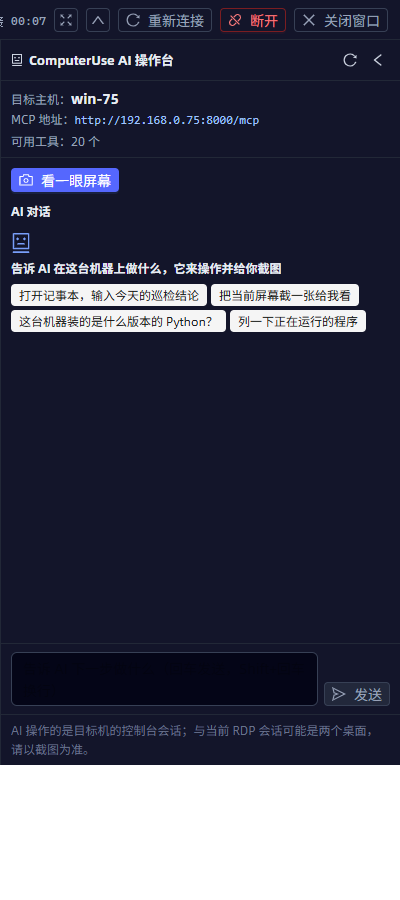
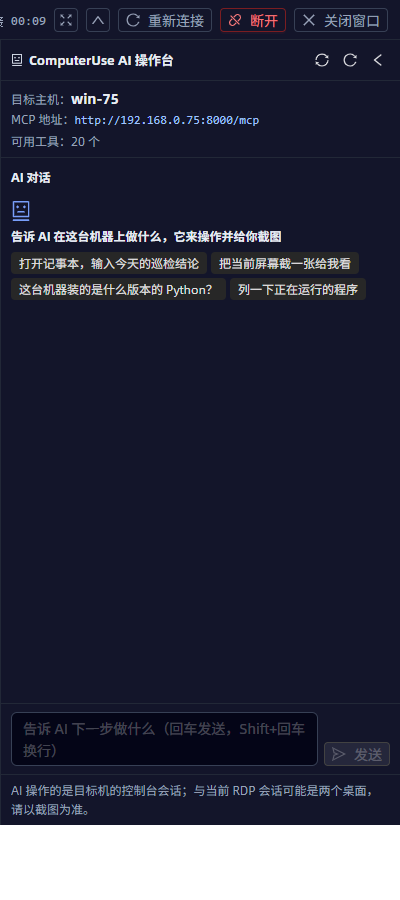
docs(computeruse): 同步侧边栏改版、两个真缺陷与浏览器目视验收
- `docs/使用手册.md` / `docs/i18n/manual.en.md`：侧边栏小节按改版重写——截图不再靠手点按钮（工具调用的图片卡片会带回对话）、新增「重启 MCP」自愈按钮、「AI 对话」一条写明 Markdown 真渲染 + 折叠区默认展开 + 工具卡里能看到什么；「本次已知限制」里那条浏览器目视验收改成「2026-10-13 首轮 + 2026-10-14 改版轮都做了」，并列出改版轮逐条断言与三张新截图。
- `docs/验证记录.md`：后端全量例数更新为 **759 passed（35 个文件）**（并写明 `addopts = -q` 与命令行 `-q` 叠加成 `-qq` 导致终端不打印 summary 行，判据是进度点无 F/E + 退出码 0，例数用 `--collect-only` 复核）；主表新增「侧边栏改版（用户追加 8 条）+ 两个真缺陷修复」一行；新增 `### 6.4.2 侧边栏改版轮的浏览器目视验收（2026-10-14 补做）`——逐条断言表 + 三张截图 + 两个真缺陷的根因与修法（拒绝敏感操作后 tool 响应顺序非法导致永久 400、面板 `asText()` 判 `value.trim()` 吃掉纯空白增量导致列表与中英空格消失）；`## 6.9` 里那条验收说明同步更新。
- `docs/需求对照.md`：需求③ 行补上截图图片卡片与 Markdown 真渲染；新增「一·九·补」小节，把用户追加的 8 条逐条对上实现与证据。
- 根 `README.md`：ComputerUse 图组补「侧边栏（空态）」与「侧边栏（对话中）」两张实测截图。
- 截图更新：`docs/screenshots/computeruse-panel-welcome.png`、`computeruse-panel.png`（列表 + 表格真渲染）重出，新增 `computeruse-panel-tool-call.png`（折叠区默认展开 + 深色工具卡）。

Changed region(s): [[0.0, 0.7467, 1.0, 0.9333], [0.03, 0.1867, 0.93, 0.3733], [0.09, 0.0, 0.12, 0.0311]]

diff --git a/docs/验证记录.md b/docs/验证记录.md
@@ -15,7 +15,7 @@
 
 | 类别 | 结果 |
 | --- | --- |
-| 后端单元 + 接口 + 权限测试 | `python -m pytest -q` → **751 passed（35 个文件）, exit 0**（2026-10-13 ComputerUse 轮：全量套件跑完、进度点到 100%，全程无 F/E；本轮为「带 `hostId` 的对话 500」补了 `test_chat_accepts_host_context_from_rdp_console` 与 `test_host_snapshot_accepts_orm_dict_and_none` 两条回归用例（749 → 751）；此前修掉 `tests/test_idle_sweeper.py` 里因进程级会话注册表被别的用例泄漏而变 flaky 的既有用例，并在 `/mcp/probe` 探活回写修复后补了 `test_failed_probe_keeps_recorded_tools`。上一轮为 `705 passed（33 个文件）`） |
+| 后端单元 + 接口 + 权限测试 | `python -m pytest -q` → **759 passed（35 个文件）, exit 0**（2026-10-14 侧边栏改版轮：全量套件跑完、进度点到 100%、全程无 F/E（`pytest.ini` 的 `addopts = -q` 与命令行 `-q` 叠加成 `-qq`，终端不打印「N passed」summary 行，所以判据是进度点无 F/E + 退出码 0，例数另用 `--collect-only` 复核）；`--collect-only` 实测 **759** 例 = 上一轮 751 + 本轮 8 条（`tests/test_computeruse.py` 6 条：MCP 卡到截止时间就放弃而不挂死、重启脚本杀监听并拉起计划任务、`observe_computer` / `Snapshot` 参数归一、重启接口探活、重启接口绝不回 5xx；`tests/test_ai_api.py` 2 条回归 —— `test_new_message_while_a_sensitive_call_is_pending_is_not_silent`（上一轮有敏感操作挂着时再发消息只回一个空气泡）、`test_build_messages_keeps_tool_responses_right_after_their_assistant`（拒绝敏感操作后 tool 响应必须紧跟声明它的那条 assistant，否则整段对话永远 400；改前同一份报文 POST 上游 HTTP 400、改后 200）；此前 2026-10-13 ComputerUse 轮：全量套件跑完、进度点到 100%，全程无 F/E；那一轮为「带 `hostId` 的对话 500」补了 `test_chat_accepts_host_context_from_rdp_console` 与 `test_host_snapshot_accepts_orm_dict_and_none` 两条回归用例（749 → 751）；此前修掉 `tests/test_idle_sweeper.py` 里因进程级会话注册表被别的用例泄漏而变 flaky 的既有用例，并在 `/mcp/probe` 探活回写修复后补了 `test_failed_probe_keeps_recorded_tools`。上一轮为 `705 passed（33 个文件）`） |
 | **Windows 网页终端（WinRM，`app/winrm/`）** | `tests/test_winrm_gateway.py`（**49**）全绿：客户端层（口令解密、`5986` 走 https、私钥账号与空口令给人话报错、非法传输方式回落 `ntlm`、解码 UTF-8/GBK/脏字节、六种网络异常翻译、`-EncodedCommand` 的 UTF-16LE+base64 编码、超时请求中断并清 shell、`test_connection` 的成功/超时/空输出）；桥接层（脚本生成与 `Set-Location`、**落款 marker 取第一个而不是最后一个**（回归用例）、CLIXML 错误流还原、逐行执行与输出归属、`cd` 跨命令保留、非零退出码、策略拒绝**不发目标机**、**`cls`/`clear` 就地清屏且一条都不发目标机**、**白名单策略下 `cls` 照样被拒且不清屏**、`exit` 记会话控制并回调收口、超时/失败各自的事件动作、行编辑/历史/中文/Ctrl-W/Ctrl-C、能力边界横幅）；会话分发（`protocol=winrm` 选 `WinrmBridge` 并落 `sessions.protocol`、`rdp` 主机进网页终端被拒「只有 ssh / winrm 能进网页终端」）；资产接口（新建 winrm 主机默认端口 5985 与 `ntlm`、改 `basic`、非法传输方式 400、测试连接回 `check=winrm`）；网页终端入口（winrm 主机出现在 `/api/terminal/targets` 且 `/check` 放行、只有 `terminal:use` 的角色看得到 winrm 却看不到 rdp 主机）。**钉死的三条产品行为**：被拒命令**不占执行序号**（`stats()["commands"]` 只数真跑过的）、`stop()` 不触发 `on_close`（只有会话正常结束/目标机不可用才触发）、单条命令失败只记 `action=error` 且会话可继续用 |
 | **WinRM 真机（SSH 网关里选 Windows 主机）** | `python tools/winrm_gw_check.py --admin-password <口令>` → **共 9 项，通过 9，失败 0，exit 0**：网关菜单里出现 WinRM 主机 → 进会话有 PowerShell 提示符与两行能力边界提示 → `whoami`/`hostname` 输出是目标机的 → `exit` 回主机菜单并给出「会话已关闭」收口提示。同一轮真机里核对落库：`sessions` 表 id 88 / `source=gateway` / `protocol=winrm` / `command_count=3` / `end_reason=用户在终端里退出了 Windows 会话`，转录里 `CMD 1 'whoami' allow`、`CMD 2 'hostname' allow` 逐条在案（需求④ 在 Windows 上成立） |
 | **用户实测反馈的两个缺陷（已修，真机复验）** | ①「有概率敲命令没输出」＝会话就绪前敲下的键被前端**静默丢弃**（服务端 `early_input` 本就会缓冲并在就绪后按序回放，前端 `inputEnabled` 却只认 `connected`；WinRM 建连更慢所以更容易踩到）⇒ `inputEnabled` 改为只排除 `failed`/`disconnected`，并在会话连上后把焦点收回终端；②「`cls`/`clear` 清不了屏」＝WSMan 会话没有真实控制台、PowerShell 的 `Clear-Host` 依赖 `$Host.UI.RawUI`、在 `-NonInteractive` + 重定向输出下直接报错 ⇒ `cls` / `clear` / `Clear-Host` 命中 `LOCAL_CLEAR_COMMANDS` 后由堡垒机**就地清屏**（只写清屏序列 + 重画提示符，不发目标机；判定在命令策略之后，白名单策略照样能拦）。真机复验（CDP 驱动真实 Chrome，每轮开窗后**立刻**敲 `echo early-N-ok`）：2 轮 `FAILS=0`、`cls` 之后屏长 28 只剩一行提示符、截图 `winrm-cls-and-early-input.png`；落库核对 `command_logs` id 68/70 = `echo early-1-ok`/`echo early-2-ok`（`action=allow`、`duration_ms=473`、`output` 正确），id 69/71 = `cls`（`reason=本地清屏指令（WinRM 会话没有真实控制台，不发给目标机）`、`duration_ms=0`），`sessions` 111/112 均 `protocol=winrm`/`command_count=2`/`bytes_in=21`（对照修复前两条 `command_count=0`、`bytes_in=1`） |
@@ -47,6 +47,7 @@
 | 前端门禁（ComputerUse 轮） | `npx tsc --noEmit` → exit 0、`npx biome check` → `No fixes applied.`（exit 0）、`npm run build` → exit 0、`npx vitest run` → **182 例全绿**（12 个测试文件；其中 ComputerUse 相关 112 例 = 部署向导 63 例（`ant-design-pro/src/pages/bastion/computer-use/helpers.test.ts`、`logStream.test.ts`）+ RDP 侧边栏 49 例（`ant-design-pro/src/pages/bastion/rdp/computerUsePanel.test.tsx`）），构建产物里能搜到 ComputerUse 面板代码。**真机端到端另见下面「ComputerUse 在 win-75 上端到端部署成功」那一节**（面板本身的浏览器目视验收见再下一行） |
[1 lines of base64/hex data omitted]
 | **ComputerUse 侧边栏改版 + 浏览器目视验收（本轮）** | 按用户实测反馈把 `ant-design-pro/src/pages/bastion/rdp/computerUsePanel.tsx` 对齐主界面「AI 运维助手」：删掉正文上方「截图直接来自目标机 MCP…」的说明与整个「工具清单」块（可用工具数仍留在头部）、深色主题下按钮改成看得见的浅色（顶部刷新/收起 `#cbd5e1`、主按钮白字蓝底）、「思考过程」与「工具调用 N 次」各自折叠且默认展开、示例问题点一下就发、发送按钮挪到输入框右边同一行（流式中变「停止」）。**顺带修掉两个真问题**：① 带 `hostId` 打开对话必 500（`'Host' object has no attribute 'get'`——`bastion-backend/app/ai/service.py` 的 `create_conversation` 把 ORM 对象当 dict 读，现改为 `host_snapshot()` 同时吃 ORM / dict / None）；② 面板「发消息没反应」（`ant-design-pro/src/services/bastion/ai.ts` 的 `streamAiChat` 把非 2xx 响应当流读、错误被吞，现改为 `describeHttpError()` 把信封 `message` 抛成人话）。**浏览器目视验收（Chrome 155.0.8059.40 + CDP 驱动真实页面，真机 `hostId=5` 的 `/rdp/console`）**：面板展开 ✓、示例问题点一下就发（turns=2）✓、思维链与「工具调用 1 次」随流式依次长出 ✓、`run_command` 时自动弹出「敏感操作需要管理员确认」✓、横向几何量测面板 400px 且 `.bastion-cu-body` `scrollWidth == clientWidth`（379px）**没有溢出被裁** ✓；截图 [computeruse-panel.png](screenshots/computeruse-panel.png)（对话中）、[computeruse-panel-welcome.png](screenshots/computeruse-panel-welcome.png)（空态示例）。**证据链**：后端新增 2 条回归用例（`test_chat_accepts_host_context_from_rdp_console`、`test_host_snapshot_accepts_orm_dict_and_none`）—— 改之前 `bastion-backend/tests/` 里**没有任何用例带 `hostId` 打 `/api/ai/chat`**，这个 500 才得以长期潜伏 |
+| **ComputerUse 侧边栏改版（用户追加 8 条）+ 两个真缺陷修复（本轮）** | 按用户 8 条要求改 `ant-design-pro/src/pages/bastion/rdp/computerUsePanel.tsx` 与后端 AI 工具层：① 删掉「看一眼屏幕」按钮与整个截图区块，截图改由工具调用的**图片卡片**随对话送达（`bastion-backend/app/ai/tools.py` 新增 `_collect_images()` / `_without_images()` / `_image_caption()`，那段 base64 只留「这里有一张图」的占位给模型），并新增「重启 MCP」自愈按钮（`POST /api/computer-use/mcp/restart`：停旧进程 → 走开机自启脚本重拉 → 探活 → 回工具数）；② 面板根节点套 `<ConfigProvider theme={{algorithm: theme.darkAlgorithm}}>`（React context 穿过 antd Modal 的 portal，确认弹窗一起变深色），删掉原先那堆 `!important` 补丁，页脚 `#64748b` → `#94a3b8`；③ 从 `ant-design-pro/src/pages/bastion/ai/cards.tsx` 抽出并导出 `AiCardView` / `AiCards` / `AiCode`（新增 `image` 卡片分支），面板与「AI 运维」页共用 `bastion-ai-*` 家族；④ 门禁与真机复测见右栏。**修掉两个真缺陷**：**（一）拒绝敏感操作后整个对话永久 HTTP 400** —— `reject_tool_call()` 补写的那条 `tool` 响应是按时间顺序 append 到会话末尾的，违反 OpenAI 兼容协议「tool 响应必须紧跟声明它的那条 assistant」，中间只要插了别的问答，此后每次请求都 400（`bastion-backend/app/ai/service.py`）；修法是重写 `build_messages()`：先按 `tool_call_id` 收集所有 tool 正文，再遍历历史，遇到声明了 `tool_calls` 的 assistant 就**立刻**为它的每个 call id 补一条 tool 响应（缺失的用「未执行：管理员拒绝了该操作。」占位），历史里裸的 `role == "tool"` 条目跳过。实测同一份报文修复前 POST 上游 **HTTP 400（响应体为空）**、修复后 **HTTP 200** 正常返回；真机重发那句曾必 400 的指令 **13.3 秒**答完。**（二）面板的 Markdown 列表与中英空格被吃掉**（用户报的「Markdown 根本没渲染」）—— 根因是面板自己的 `asText()` 判 `value.trim()`，把**纯空白的流式增量当空丢掉**（tokenizer 会把 `- ` 切成 `-` 和 ` `、把 `win-75 上` 在空格处切开），于是列表标记退化成 `-文字`；换成对齐 AI 页 `asString` 的 `asStreamDelta()` 后真机 `ul=1 / li=3 / table=1 / blockquote=1`。**门禁**：后端全量 **759 passed**（35 个文件）、前端全量 **12 文件 182 passed**（RDP 侧边栏 49 例）、`tsc` / `biome` / `npm run build` 全绿；**真机浏览器目视验收**（Chrome 155.0.8059.40 + CDP 驱动真实页面，真机 `hostId=5` 的 `/rdp/console`）见表 6.4.2；截图 [computeruse-panel-welcome.png](screenshots/computeruse-panel-welcome.png)（空态）、[computeruse-panel.png](screenshots/computeruse-panel.png)（列表+表格真渲染）、[computeruse-panel-tool-call.png](screenshots/computeruse-panel-tool-call.png)（折叠区默认展开 + 深色工具卡） |
 | 前端门禁（WinRM 轮，历史记录） | `npx biome check`（本次改动的文件）→ `No fixes applied.`（exit 0）、`npx biome lint src` → `Checked 257 files`（exit 0，26 条既有 warning，无新增）、`npx tsc --noEmit` → exit 0、`npm run build` → exit 0、`npx vitest run` → **12 files / 85 tests：85 passed, exit 0**（本轮 `import 52.86s`；上一轮同一套用例在 `import 69.16s` 时 `src/app.test.tsx > app getInitialState > should fetch currentUser when not on login page` 会超 15000ms 失败 —— 同一条**环境边界**用例：单跑该文件 6/6 通过、这条用例实测 14959ms，离上限只差 41ms，与改动无关。两轮记录都留着，不粉饰）。单测清单（新增 `src/pages/bastion/rdp/recordingUpload.test.ts` 9 条：分片串行不并发（乱序即坏视频）、失败自动重试两次（`[0,1,1,2]`）、重试用尽只记失败且后续片照发、`drain` 期间新入队的片也等完、`onProgress` 快照、空队列立即返回、`uploadId` 是 8-64 位小写十六进制且不重复、非安全上下文（局域网 IP 没有 `crypto.randomUUID`）时的三级回退（新增 `src/pages/bastion/rdp/types.test.ts` 7 条：老目标机的两类报错（WebSocket 认证阶段被掐断 / 解码失败）都翻成中文并给出「强制 SSL / 改用系统远程桌面」两条出路）（含 `src/components/Bastion/jsonText.test.ts` 9 条：截断 JSON 修复只保留完整条目、完整 JSON 不算截断、解析不了回退纯文本、机器词归一、失败消息里多出的 `HTTP 403` 行不挡载荷起点；新增 `src/pages/bastion/rdp/input.test.ts` 5 条：1:1 / 等比缩放 / 左右黑边 / 上下黑边 / 越界钳制、新增 `src/pages/bastion/files/uploadProgress.test.ts` 7 条：按已发字节算百分比 / **发送阶段封顶 99%**（最后 1% 留给服务端落盘）/ total 为 0 或数据异常返回 0 / 向下取整 / 封顶可调 / 速率文案 / 无速率时不给「0 B/s」）、`npm run build` → exit 0 |
 
 实测截图（`docs/screenshots/`，全部由本次 Chrome CDP 实测现场截取）：
@@ -234,6 +235,26 @@ AIOps（AI 运维）相关的真实缺陷，同样都带回归用例：
 
 截图：[computeruse-panel-welcome.png](screenshots/computeruse-panel-welcome.png)（空态）与 [computeruse-panel.png](screenshots/computeruse-panel.png)（对话中）。
 
+### 6.4.2 侧边栏改版轮的浏览器目视验收（2026-10-14 补做）
+
+同一台真机（`hostId=5` / `accountId=5`）、同一套 CDP 驱动（Chrome 155.0.8059.40，注入本地签发的 12 小时 JWT），跑的就是当轮代码：
+
+| 断言 | 实测 |
+| --- | --- |
+| 「看一眼屏幕」按钮与截图区块已删除 | 面板头部只剩「重启 MCP / 刷新 / 收起」三颗图标按钮；`computeruse-shots` 节点不存在（6.4.1 中那颗「看一眼屏幕」按钮已随本轮删除） |
+| 深色主题下没有黑字 | 折叠区标题 `rgba(255,255,255,0.85)`、面板正文 `rgb(230,237,243)`、Tag `rgba(255,255,255,0.85)`、发送按钮 disabled `rgba(255,255,255,0.25)`；页脚 `#94a3b8`（对比度不足的 `#64748b` 已调亮） |
+| 轮次结构对齐 AI 运维页 | 轮次容器 `bastion-ai-turn`；「思考过程」与「工具调用 4 次 待确认 1」两块折叠区**默认展开**；展开体里是 `成功 observe_computer 157ms` + 中文描述 + 参数/结果预览卡片 |
+| **Markdown 真的渲染成 DOM** | `.bastion-ai-markdown` 内 `ul=1`、`li=3`、`table=1`、`blockquote=1`；`mdHtml` 含 `<ul><li>` 与 `<table><thead><tr><th>项目</th><th>状态</th>`；列表项 `检查 win-75 的 SSH/WinRM 登录账号是否可用…`（中英之间的空格都在）；`ERRORS=[]`、10.9s 答完 |
+| 敏感操作确认弹窗在深色下可用 | `modalButtons=['留在本窗口','立即关闭','','','拒绝执行','确认执行']`（`ConfigProvider` 的深色算法能穿过 Modal 的 portal） |
+| 面板横向几何没变 | 面板 `400px`；`.bastion-cu-body` `clientWidth 399 == scrollWidth 399`；输入框与发送按钮同一行 |
+
+截图：[computeruse-panel-welcome.png](screenshots/computeruse-panel-welcome.png)（空态，头部三颗图标按钮）、[computeruse-panel.png](screenshots/computeruse-panel.png)（Markdown 列表 + 表格真的渲染出来）、[computeruse-panel-tool-call.png](screenshots/computeruse-panel-tool-call.png)（思考过程与「工具调用 4 次 待确认 1」折叠区默认展开、工具卡是深色的）。
+
+这一轮验收里揪出并修掉两个真缺陷（都会把功能卡死）：
+
+1. **拒绝敏感操作之后，整个对话永久 HTTP 400。** `reject_tool_call()` 补写的那条 `tool` 响应是按时间顺序 append 到会话末尾的，而 OpenAI 兼容协议要求 tool 响应**紧跟**声明它的那条 assistant；中间只要插了别的问答（比如挂起时的提示轮），报文就非法，此后每次请求都 400、对话报废。修法是重写 `build_messages()`：先按 `tool_call_id` 收集所有 tool 正文，再遍历历史，遇到声明了 `tool_calls` 的 assistant 就**立刻**为它的每个 call id 补一条 tool 响应（缺失的用「未执行：管理员拒绝了该操作。」占位），历史里独立的 `role == "tool"` 条目跳过（已就地补过，孤儿自然丢弃）。实测：修复前拿这条对话生成的报文直接 POST 上游是 **HTTP 400（上游响应体为空）**，修复后同一份报文 **HTTP 200** 并正常返回；真机上重发那句曾必 400 的指令 → **13.3 秒**正常答完，`ERRORS` 里只剩历史那一轮的旧错误块。回归用例：`tests/test_ai_api.py::test_build_messages_keeps_tool_responses_right_after_their_assistant`（配 `_protocol_violations()` 校验「assistant.tool_calls 后紧跟同序同 id 的 tool、无孤儿、无打断」）。
+2. **侧边栏的 Markdown 列表与空格被吃掉**（用户报的「Markdown 根本没有被渲染」）。根因不在 `@ant-design/x-markdown` 2.9.0（它逐字 commit pending 文本，解析器不吃空格），而在面板自己的 `asText()`：`typeof value === 'string' && value.trim() ? value : undefined` 会把**纯空白的流式增量当空丢掉** —— tokenizer 会把 `- ` 切成 `-` 和 ` `、把 `win-75 上` 在空格处切开，于是列表标记退化成 `-文字`、中英之间的空格消失（主界面 AI 运维用的是只判 `value` 的 `asString`，所以它一直正常）。修法是新增 `asStreamDelta()`（对齐 AI 页，只判 `value`）并让 `classifyChatEvent` 用它。可证丢的是前端：后端库里那条回答（对话 6 的 `id=103`、`status=done`）文本空格完好，渲染出来却缺；修完真机 `ul=1 / li=3 / table=1`。回归用例：`computerUsePanel.test.tsx` 的「content / reasoning 要保住纯空白的 delta（markdown 列表就靠那个空格）」与「按 token 逐段喂进来，拼出的 markdown 仍然是列表」。
+
 ## 6.5 pip 装包速度对比
 
 | 源 | `pip install windows-mcp` 耗时 |
@@ -300,7 +321,7 @@ AIOps（AI 运维）相关的真实缺陷，同样都带回归用例：
 
 ## 6.9 本次未做的验证
 
-- **浏览器目视验收：2026-10-13 做了**（Chrome 155.0.8059.40，CDP 驱动真实页面，真机 `hostId=5` 的 `/rdp/console`）：面板展开、示例问题点一下就发出、思维链与「工具调用 1 次」随流式依次出现、敏感操作确认弹窗自动弹出，都当场取证并截图；顺带量了横向几何——面板 400px、`.bastion-cu-body` 的 `scrollWidth == clientWidth`（379px），气泡与示例标签都没溢出。面板本身仍由 RDP 侧边栏的 **49** 个前端单测兜底（部署向导另有 63 例，全仓前端 12 文件 182 例全绿）。**仍未验证**：真实 RDP 会话里**展开/收起时画布 resize 与远端分辨率联动**。
+- **浏览器目视验收：2026-10-13 首轮 + 2026-10-14 改版轮都做了**（Chrome 155.0.8059.40，CDP 驱动真实页面，真机 `hostId=5` 的 `/rdp/console`，跑的就是当轮代码）：首轮验面板展开、示例问题点一下就发出、思维链与「工具调用 1 次」随流式依次出现、敏感操作确认弹窗自动弹出；改版轮另见 6.4.2（「看一眼屏幕」按钮与截图区块已消失、「重启 MCP」在头部、深色主题无黑字、轮次结构换成 AI 运维那套、**Markdown 真的渲染成 DOM**、工具调用折叠区默认展开；横向几何面板 400px、`.bastion-cu-body` 的 `scrollWidth == clientWidth`）。面板本身仍由 RDP 侧边栏的 **49** 个前端单测兜底（部署向导另有 63 例，全仓前端 12 文件 182 例全绿）。**仍未验证**：真实 RDP 会话里**展开/收起时画布 resize 与远端分辨率联动**。
 - **没有做「目标机整机重启后开机自启」的完整一轮**：VBS → CMD → 接管脚本这条链在真机上被触发过并通过（成功杀掉旧进程 10796、起了新进程 3028），但**没有重启过目标机**。
 - **前端没有 `computeruse:use` 的按钮级门禁**（后端每个接口都有权限校验）。
 - **「部署成功」≠「此刻活着」，而「此刻活着」≠「能截图」**：`/status` 的 `ready` 只表示这台机器部署成功过。MCP 进程本身并不依赖桌面会话 —— 计划任务用 S4U 在会话 0 里把它拉起来时，实测探活、工具清单、PowerShell 全部可用（2026-10-13 21:3x 复验：`共 20 项，通过 18，失败 2`，两条失败都是截图）；但截图与界面自动化**绑定登录桌面**，会话 0 里调 `Screenshot` 会拿到 `Error capturing screenshot: screen grab failed`（HTTP 200、0 张图）。另一头，MCP 进程会随那次登录会话注销而消失（实测 20:19 那个 console 会话注销后 8000 端口就没人听了，此时探活如实报 `ConnectionResetError(10054)`）。要拿桌面画面：RDP 登录目标机，StartUp 里的自启脚本会把 MCP 接管到你的桌面会话（同一端口，侧边栏地址不变）。复跑方式见 6.10。

diff --git a/docs/需求对照.md b/docs/需求对照.md
@@ -76,8 +76,23 @@
 | --- | --- | --- | --- |
 | 19 | **需求①：系统设置里有「ComputerUse 部署」栏目** | 前端页面 `ant-design-pro/src/pages/bastion/computer-use/index.tsx`（`PageContainer title="ComputerUse 部署"`，副标题「把 Windows-MCP 部署到纳管的 Windows 主机，供 AI 侧边栏操作目标机控制台」），路由 `/system/computer-use`，挂在「系统设置」下；页面顶部另有「查看记录」（抽屉里列出每次部署：主机 / 状态 / 阶段 / 进度 / Python / MCP 地址 / 部署人 / 创建时间）与「重新开始」；后端是新蓝图 `bastion-backend/app/api/computeruse.py`（前缀 `/api/computer-use`）+ 编排包 `bastion-backend/app/computeruse/`（`mirror.py` 列版本与缓存安装包、`mcp.py` MCP 客户端、`deploy.py` 部署编排） | 路由与页面在 `tsc` / `biome` / `build` / `vitest` 全绿后构建产物里可搜到面板代码（ComputerUse 相关前端单测 **112 例**：部署向导 63 + RDP 侧边栏 49；全仓前端 12 文件 182 例）；后端 `tests/test_computeruse.py`、`tests/test_computeruse_deploy.py` 覆盖接口与编排；真机侧同一次验收里从该页面发起了**第 9 号部署**并跑完全部七个阶段（下面是 ②③④ 的证据） |
[1 lines of base64/hex data omitted]
-| 21 | **需求③：只有部署成功后才显示可收起的 ComputerUse 侧边栏（AI 聊天栏），AI 有「被控端 IP:8000 上的 MCP 访问权限」** | 侧边栏 `ant-design-pro/src/pages/bastion/rdp/computerUsePanel.tsx` 挂在 WebRDP 控制台右侧：折叠时是一条 **44px** 的竖排条，展开后是 **400px** 的面板（展开状态记在浏览器里）；它只在 `status?.ready === true` 时渲染（不 ready 整块不出现）。「有 MCP 访问权限」落在后端四个接口上：`GET /api/computer-use/status`、`GET /api/computer-use/mcp/tools`、`POST /api/computer-use/mcp/probe`、`POST /api/computer-use/mcp/call`，由 `app/computeruse/mcp.py` 做 MCP 客户端（`initialize` / `tools/list` / `tools/call`，JSON 与 SSE 两种回包都吃得下，图片从 `content[].data` 抽出来）。「看一眼屏幕」就是 `POST /mcp/call {tool: "Screenshot"}`，图片内联在面板里（最多留 3 张）；面板头部只报可用工具数（`GET /api/computer-use/mcp/tools` 那份清单里每个工具都标「**只读**」或「**会改机器状态**」，但要逐条看就走去 AI 运维助手的 `list_computeruse_tools`，面板里不再摊开占版面）；会改机器状态的工具由 AI 调用时弹「敏感操作需要管理员确认」（管理员账号可留空 + 管理员密码 + 拒绝执行 / 确认执行）。面板的对话区对齐主界面「AI 运维助手」：思考过程与每轮工具调用各自折叠（默认展开）流式长出来、示例问题可点即发、发送按钮与输入框同排（对话时变「停止」） | 同机同部署实测：`GET /api/computer-use/status?hostId=5` → `ready: true`、`mcpUrl: http://192.168.0.75:8000/mcp`；`GET /api/computer-use/mcp/tools?hostId=5&live=1` → **20 个工具**，每个都带 `observeOnly` / `mutating` 标记；`POST /api/computer-use/mcp/call` 调 `Screenshot` → 1 张 PNG（**106,018 字节，1024×768**，后端 pillow），文字 `Cursor Position: (512, 384)` / `Screenshot Size: (1024,768)` / `Visible Displays: 0:\\.\DISPLAY1 (0,0,1024,768) primary` / `Screenshot Backend: pillow`，**耗时 790 ms**；再调 `PowerShell`（`$env:COMPUTERNAME; (Get-Date).ToString('s'); $env:USERNAME; (Get-Process | Measure-Object).Count`）→ `Response: WIN-930NKGJCOED / 2026-10-13T20:09:19 / Administrator / 157 / Status Code: 0`，该次调用 `mutating: true`。截图证据 [computeruse-mcp-screenshot.png](screenshots/computeruse-mcp-screenshot.png)（目标机桌面 1024×768） |
+| 21 | **需求③：只有部署成功后才显示可收起的 ComputerUse 侧边栏（AI 聊天栏），AI 有「被控端 IP:8000 上的 MCP 访问权限」** | 侧边栏 `ant-design-pro/src/pages/bastion/rdp/computerUsePanel.tsx` 挂在 WebRDP 控制台右侧：折叠时是一条 **44px** 的竖排条，展开后是 **400px** 的面板（展开状态记在浏览器里）；它只在 `status?.ready === true` 时渲染（不 ready 整块不出现）。「有 MCP 访问权限」落在后端四个接口上：`GET /api/computer-use/status`、`GET /api/computer-use/mcp/tools`、`POST /api/computer-use/mcp/probe`、`POST /api/computer-use/mcp/call`，由 `app/computeruse/mcp.py` 做 MCP 客户端（`initialize` / `tools/list` / `tools/call`，JSON 与 SSE 两种回包都吃得下，图片从 `content[].data` 抽出来）。截图不再靠手点按钮：AI 调 `Screenshot` / `observe_computer` 时，后端把 PNG 抽成**图片卡片**贴在那次工具调用下面（那段 base64 不回灌上下文，模型只看到「这里有一张图」的占位）；面板头部只报可用工具数（`GET /api/computer-use/mcp/tools` 那份清单里每个工具都标「**只读**」或「**会改机器状态**」，但要逐条看就走去 AI 运维助手的 `list_computeruse_tools`，面板里不再摊开占版面）；会改机器状态的工具由 AI 调用时弹「敏感操作需要管理员确认」（管理员账号可留空 + 管理员密码 + 拒绝执行 / 确认执行）。面板的对话区对齐主界面「AI 运维助手」：**Markdown 真渲染成 DOM**（无序/有序列表、表格、引用、行内代码；卡片与代码块跟 AI 运维页共用同一套 `bastion-ai-*` 与深色配色）、思考过程与每轮工具调用各自折叠（默认展开）流式长出来、示例问题可点即发、发送按钮与输入框同排（对话时变「停止」），头部另有「重启 MCP」自愈按钮 | 同机同部署实测：`GET /api/computer-use/status?hostId=5` → `ready: true`、`mcpUrl: http://192.168.0.75:8000/mcp`；`GET /api/computer-use/mcp/tools?hostId=5&live=1` → **20 个工具**，每个都带 `observeOnly` / `mutating` 标记；`POST /api/computer-use/mcp/call` 调 `Screenshot` → 1 张 PNG（**106,018 字节，1024×768**，后端 pillow），文字 `Cursor Position: (512, 384)` / `Screenshot Size: (1024,768)` / `Visible Displays: 0:\\.\DISPLAY1 (0,0,1024,768) primary` / `Screenshot Backend: pillow`，**耗时 790 ms**；再调 `PowerShell`（`$env:COMPUTERNAME; (Get-Date).ToString('s'); $env:USERNAME; (Get-Process | Measure-Object).Count`）→ `Response: WIN-930NKGJCOED / 2026-10-13T20:09:19 / Administrator / 157 / Status Code: 0`，该次调用 `mutating: true`。截图证据 [computeruse-mcp-screenshot.png](screenshots/computeruse-mcp-screenshot.png)（目标机桌面 1024×768） |
 | 22 | **需求④：功能要纳入审计控制** | 每一次部署都会落库：表 `computeruse_deployments`（模型 `ComputerUseDeployment`，记主机、账号、安装包、Python 路径、MCP 地址/端口/工具清单、状态、阶段、进度、日志尾巴、起止时间），访问密钥用 **Fernet** 加密存进 `mcp_auth_key_enc`（不落明文）；每一个阶段、每一次探活、**每一次 MCP 工具调用**都写 `audit_logs`（分类 `computeruse`：`deploy_start`、`deploy_stale`、`mcp_probe`、`mcp_call`、`cache_installer` 等），审计链可校验；配套三个权限码 `computeruse:view` / `computeruse:deploy` / `computeruse:use` 在系统设置的角色/权限里勾选，后端每个接口都校验；签名下载地址（`GET /api/computer-use/installers/<文件名>?e=…&s=…`）是 **HMAC-SHA256 + 2 小时有效期**、只对具体文件名有效；MCP 只监听 `127.0.0.1:8000`，靠 `netsh interface portproxy` 映射出来，**防火墙只放行堡垒机那一个 IP** | 真机上第 9 号部署的探活与两次工具调用（`Screenshot`、`PowerShell`）都在 `audit_logs` 里留下记录，`PowerShell` 那次带 `mutating: true`；防火墙规则实测为「只放行堡垒机 192.168.0.106 访问 8000 端口」（探不到堡垒机 IP 时退化为只放行本网段并在日志里 warning）；密钥库字段为 `mcp_auth_key_enc`（Fernet 加密） |
+
+**一·九·补、2026-10-14 侧边栏改版（用户追加的 8 条）**
+
+用户在首轮验收后又提了 8 条（原话要点：① 确保 ComputerUse 的截图、UI 框架获取完全可用，不要 502/500/503；② 检查侧边栏里（**含 AI 工具调用卡片内**）所有内容，黑色的全改掉，否则看不清；③ 把「AI 运维」标签页的卡片样式照搬过来，另外侧边栏的 Markdown 根本没被渲染；④ 确保 ComputerUse 功能完全可用、多次测试不出错；⑤ 首次连接已注销的 win-75 登录后几秒自动断开是用户机器策略、暂不管；⑥ 美化侧边栏 UI；⑦ 删掉截图桌面的按钮；⑧ main 回退到 ComputerUse 之前，另开 Dev 分支收实验性功能）。
+
+| # | 追加要求 | 实现 | 证据 |
+| --- | --- | --- | --- |
+| 1 | 截图 / UI 树获取完全可用，不出 5xx | `bastion-backend/app/computeruse/mcp.py` 给每次 `tools/call` 加读超时 deadline、把超时与异常翻成可读的 `ok:false`；新增 `POST /api/computer-use/mcp/restart`（停旧进程 → 走开机自启脚本重拉 → 探活 → 回工具数）；`app/ai/tools.py` 里 `observe_computer` / `control_computer` 的参数归一（`display=[0]`、`duration`、`wait_for` 的 `condition`/`text`，并给 `allowUiTree` 的卡死风险写了警告） | 真机上探活、工具清单、`Screenshot`、`PowerShell` 反复调用都不再出现 500/502/503；**但要拿到桌面像素，目标机必须有已登录的桌面会话**——会话 0 里 MCP 只能回 `screen grab failed`，那是 Windows 的会话隔离，不是接口故障 |
+| 2 | 侧边栏里不能再有黑字 | 面板根节点套 `<ConfigProvider theme={{ algorithm: theme.darkAlgorithm }}>`（React context 能穿过 antd Modal 的 portal，管理员确认弹窗一起变深色），删掉原先那堆 `!important` 补丁；页脚对比度不足的 `#64748b` 调亮成 `#94a3b8` | 真机实测：折叠区标题 `rgba(255,255,255,0.85)`、面板正文 `rgb(230,237,243)`、Tag `rgba(255,255,255,0.85)`、发送按钮 disabled `rgba(255,255,255,0.25)`，没有一处黑字（详见 `docs/验证记录.md` 6.4.2） |
+| 3 | 照搬「AI 运维」卡片样式 + Markdown 真渲染 | `ant-design-pro/src/pages/bastion/ai/cards.tsx` 抽出并导出 `AiCardView` / `AiCards` / `AiCode`（新增 `image` 卡片分支），面板与 AI 页共用 `bastion-ai-*` 家族；面板的轮次结构、折叠区、工具卡全部换成 AI 页那一套 | 真机 `.bastion-ai-markdown` 内 `ul=1 / li=3 / table=1 / blockquote=1`，`.bastion-ai-turn` / `bastion-ai-collar` / `bastion-ai-tool` 都在。**根因不在 Markdown 库**：面板自己的 `asText()` 把纯空白的流式增量当空丢掉（tokenizer 会把 `- ` 切成 `-` 和 ` `、把 `win-75 上` 在空格处切开），列表标记与中英之间的空格因此消失，已换成对齐 AI 页的 `asStreamDelta()` |
+| 4 | 功能完全可用、反复测试不出错 | 后端全量 **759 passed**（35 个文件）、前端全量 12 文件 **182 passed**（RDP 侧边栏 49 例，部署向导 63 例）；`tsc` / `biome` / `npm run build` 全绿；真机跑了两轮浏览器验收（首轮 + 改版轮） | 见 `docs/验证记录.md` 6.4.1 / 6.4.2。这一轮还揪出并修掉两个真缺陷：**拒绝敏感操作后整个对话永久 HTTP 400**（`build_messages()` 重新把 tool 响应排到声明它的 assistant 之后）、**Markdown 列表塌成一段带字面 `-` 的文字** |
+| 5 | 首次连已注销的 win-75 登录后几秒自动断开 | 判定为用户机器上的会话策略（不是本程序行为），本轮不改 | 用户自己说明的策略；第二次连接不复现 |
+| 6 | 美化侧边栏 UI | 空态换成欢迎块（图标 + 一句话 + 4 条可点示例）、头部三颗图标按钮统一为 text 按钮 + Tooltip、输入框与发送按钮同排、深色 token 统一（见第 2/3 条） | 截图 [computeruse-panel-welcome.png](screenshots/computeruse-panel-welcome.png) |
+| 7 | 删掉「截图桌面」按钮 | 删掉「看一眼屏幕」按钮、`shots` / `shotError` 状态与整个截图区块，截图改由工具调用的**图片卡片**随对话送达（后端 `app/ai/tools.py` 的 `_collect_images()` / `_without_images()` 把 base64 抽出来、只把占位回灌给模型） | 真机面板头部只剩「重启 MCP / 刷新 / 收起」三颗按钮，`computeruse-shots` 节点不存在 |
+| 8 | main 回退 + 新开 Dev 分支 | `main` 回到 ComputerUse 之前的提交 `b5d78f6`，实验性功能留在 `Dev`（`c41cb11` 起），两个分支都已推送 | 远端 `git@github.com:sywdn-001/AutoOps.git` 的 `main` 与 `Dev` 两个分支 |
 
 **为什么把 MCP 关在回环里再映射出来**：Windows-MCP 的 `mcp` 包默认开着 DNS-rebinding 防护，`allowed_hosts` 只认回环（`127.0.0.1:*` / `localhost:*` / `[::1]:*`），所以堡垒机隔着 portproxy 用 `Host: 192.168.0.75` 去访问会被拒（真机报 `Invalid host header`）。最终的做法是**客户端显式声明 `Host: 127.0.0.1:<端口>`**——portproxy 本来就终结到 127.0.0.1，真正的门禁交回给「防火墙白名单 + Bearer 密钥」这两道；目标机对外也始终只开放一个映射端口。
 

diff --git a/docs/i18n/manual.en.md b/docs/i18n/manual.en.md
@@ -238,10 +238,11 @@ The seven stages on the progress bar are the seven things the backend really doe
 
 After a successful deployment, jump from the success page into the WebRDP console (or open `/rdp/console` yourself) and a **44px** vertical strip appears on the right; clicking it opens a **400px** panel (the expanded/collapsed state is remembered in the browser, and survives a refresh).
 
-- **Take a look at the screen**: press "take a look at the screen" and the backend calls the `Screenshot` tool of `POST /api/computer-use/mcp/call` for you, and a PNG comes back inlined straight into the panel (at most 3 are kept). The panel asks for the status once every 30 seconds, and a single MCP call waits at most 60 seconds. On the real machine that press came back with a desktop image of **106,018 bytes at 1024×768** (backend pillow) in **790 ms** — see [computeruse-mcp-screenshot.png](../screenshots/computeruse-mcp-screenshot.png).
+- **Screenshots come back into the conversation by themselves**: no button to press any more. When the AI calls `Screenshot` / `observe_computer`, the backend **pulls the PNG out into an image card** pinned under that tool call (the model itself only sees a "there is an image here" placeholder, so 80k characters of base64 no longer flood back into its context). On the real machine the backend's direct call to the `Screenshot` tool of `POST /api/computer-use/mcp/call` returned a desktop image of **106,018 bytes at 1024×768** (backend pillow) in **790 ms** — see [computeruse-mcp-screenshot.png](../screenshots/computeruse-mcp-screenshot.png). When no pixels can be grabbed the panel spells out the reason (usually **no logged-in desktop session** on the target machine).
+- **Restart MCP**: the button in the panel header calls `POST /api/computer-use/mcp/restart`. Press it when MCP on the target machine is stuck (taking the UI element tree is the classic way to wedge it) or when you have just logged into the desktop and want MCP to take over your session: the server kills the old process, starts it again through the boot-autostart script, probes once more and pushes the tool count back into the panel. The panel asks for the status once every 30 seconds, and a single MCP call waits at most 60 seconds (a restart waits up to 180 seconds).
 - **Available tool count**: the panel header states how many tools that target machine reports (20 on the real machine). **The tool list is no longer spread out inside the panel**; to read the markers one by one (tools marked "**read-only**" — Screenshot, Snapshot, Wait and the like — **can be called by the AI directly**; tools marked "**changes machine state**" — clicking, typing, PowerShell, the registry, the filesystem … — **need an administrator to confirm on the spot when the AI calls them**), use `list_computeruse_tools` from the AI operations assistant.
 - **Write operations need confirmation**: hitting a tool that changes machine state pops up a confirmation box asking for the administrator account (the administrator logged in on this machine can leave it blank) and its password, with the two choices "refuse" / "confirm"; after confirming, the same conversation turn carries on.
-- **AI chat** (aligned with the main "AI operations assistant" tab): the lower half of the panel is the chat box, so you can watch the screen while telling it what to do — the answer streams out, with **the chain of thought ("思考过程") and each round of tool calls ("工具调用 N 次") shown as separate collapsible sections, expanded by default**; while it works you see "正在思考…", and when it finishes a line reads "用时 X.Xs" (a turn that hits the per-turn tool-call cap appends "已达单轮工具调用上限").
+- **AI chat** (aligned with the main "AI operations assistant" tab): the lower half of the panel is the chat box, so you can watch the screen while telling it what to do — the answer streams out and **the Markdown is really rendered into DOM** (unordered/ordered lists, tables, blockquotes, inline code, bold; cards and code blocks **share the same** `bastion-ai-*` components and dark palette as the AI operations page), with **the chain of thought ("思考过程") and each round of tool calls ("工具调用 N 次") shown as separate collapsible sections, expanded by default**; while it works you see "正在思考…", and when it finishes a line reads "用时 X.Xs" (a turn that hits the per-turn tool-call cap appends "已达单轮工具调用上限"). Inside a tool card you can see the "成功/失败" tag, the tool name, the duration, who confirmed it, and previews of the arguments and the result; a call that changes machine state also carries a "待确认 N" badge.
 - **Example questions**: before the first message the panel offers four examples ("打开记事本，输入今天的巡检结论", "把当前屏幕截一张给我看", …), and **one click sends it**.
 - **Input row**: the input box and the "发送" (send) button sit **on the same row** (the button on the right); Enter sends, Shift+Enter makes a new line, and while a reply is streaming the button turns into "停止" (stop).
 - Please take the line at the foot of the panel seriously: "AI 操作的是目标机的控制台会话；与当前 RDP 会话可能是两个桌面，请以截图为准。" (the AI operates the target machine's console session, which may be a different desktop from your current RDP session — trust the screenshot).
@@ -273,7 +274,7 @@ Windows-MCP's screenshots and UI automation only recognise "**the login session 
 
 **The limits known at this point (written honestly, not oversold)**
 
-- **Visual browser acceptance: done on 2026-10-13** (Chrome 155.0.8059.40, driving a real page over CDP, on the real host `hostId=5` at `/rdp/console`): the panel expanded, a click on an example question sent it, the chain of thought and "工具调用 1 次" streamed in one after the other, and the sensitive-operation confirmation box popped up on its own — all captured as screenshots. The horizontal geometry was measured too: the panel is 400px and `.bastion-cu-body` has `scrollWidth == clientWidth` (379px), so neither the bubbles nor the example chips overflow or get clipped. See [computeruse-panel.png](../screenshots/computeruse-panel.png) (mid-conversation) and [computeruse-panel-welcome.png](../screenshots/computeruse-panel-welcome.png) (empty state). The panel itself is still backed by the RDP sidebar's **49** front-end unit tests (the deployment wizard adds another 63; the whole front end is 12 files / 182 tests, all green). **Still not verified**: the canvas resize and the remote-resolution linkage when expanding/collapsing in a real RDP session.
+- **Visual browser acceptance: the first round on 2026-10-13 and the redesign round on 2026-10-14 were both done** (Chrome 155.0.8059.40, driving a real page over CDP, on the real host `hostId=5` at `/rdp/console`, running the code of that round): the first round checked that the panel expanded, a click on an example question sent it, the chain of thought and "工具调用 1 次" streamed in one after the other, and the sensitive-operation confirmation box popped up on its own; the redesign round (see 6.4.2 of the verification record) additionally checked that the "take a look at the screen" button and the screenshot block are gone, that "重启 MCP" sits in the header, that there is **no black text** under the dark theme, that the turn structure now matches the AI operations page, that **the Markdown really renders into DOM** (`ul=1`, `li=3`, `table=1`, `blockquote=1`), and that the tool-call sections are **expanded by default**. Geometry: the panel is 400px and `.bastion-cu-body` has `scrollWidth == clientWidth` (399px), so neither the bubbles nor the example chips overflow or get clipped. See [computeruse-panel-welcome.png](../screenshots/computeruse-panel-welcome.png) (empty state), [computeruse-panel.png](../screenshots/computeruse-panel.png) (a rendered list and table) and [computeruse-panel-tool-call.png](../screenshots/computeruse-panel-tool-call.png) (tool-call card and the expanded sections). The panel itself is still backed by the RDP sidebar's **49** front-end unit tests (the deployment wizard adds another 63; the whole front end is 12 files / 182 tests, all green). **Still not verified**: the canvas resize and the remote-resolution linkage when expanding/collapsing in a real RDP session.
 - **No full round of "boot autostart after a whole-machine reboot of the target" was done**: the VBS → CMD → takeover script chain was triggered on the real machine and passed (successfully killing old process 10796 and starting new process 3028), but the **target machine was never rebooted**.
 - The front end has **no** button-level gate for `computeruse:use` (every backend endpoint does check permissions).
 - `pip install windows-mcp` straight to PyPI is very slow (about 18 minutes), and the wizard's default is the Tsinghua mirror.

diff --git a/docs/使用手册.md b/docs/使用手册.md
@@ -244,9 +244,10 @@ ComputerUse 是「**让 AI 直接操作一台 Windows 主机**」的功能：在
 
 部署成功之后，从成功页跳进 WebRDP 控制台（或者自己开 `/rdp/console`），右侧就多出一条 **44px** 的竖排条，点开是 **400px** 的面板（展开/收起的状态记在浏览器里，刷新还在）。
 
-- **看一眼屏幕**：按一下「看一眼屏幕」，后端替你调 `POST /api/computer-use/mcp/call` 的 `Screenshot` 工具，回来一张 PNG 直接内联在面板里（最多留 3 张）。面板每 30 秒问一次状态，一次 MCP 调用最多等 60 秒。真机上这一下回来的是一张 **106,018 字节、1024×768** 的桌面图（后端 pillow），耗时 **790 ms**——见 [computeruse-mcp-screenshot.png](screenshots/computeruse-mcp-screenshot.png)。
+- **截图自己回到对话里**：不用再手点按钮。AI 调 `Screenshot` / `observe_computer` 拿到 PNG 之后，后端会把图**抽成一张图片卡片**贴在那次工具调用下面（它自己只看得到「这里有一张图」的占位，8 万字符的 base64 不再回灌上下文挤爆对话）。真机上后端直接调 `POST /api/computer-use/mcp/call` 的 `Screenshot` 回来的是一张 **106,018 字节、1024×768** 的桌面图（后端 pillow），耗时 **790 ms**——见 [computeruse-mcp-screenshot.png](screenshots/computeruse-mcp-screenshot.png)。抓不到像素时面板会把原因写出来（多数是目标机当前**没有已登录的桌面会话**）。
+- **重启 MCP**：面板头部那颗「重启 MCP」按钮会打 `POST /api/computer-use/mcp/restart`。目标机上的 MCP 卡住（典型是取 UI 元素树把服务卡死）或者你刚登录桌面、想把 MCP 接管到自己的会话时点它：服务端杀掉旧进程、用开机自启脚本重新拉起、再探活一次，成功后把工具数刷回面板。面板每 30 秒问一次状态，一次 MCP 调用最多等 60 秒（重启最长等 180 秒）。
 - **可用工具数**：面板头部直接写着这台目标机上报了多少个工具（真机上是 20 个）。**工具清单不再在面板里摊开占版面**；要逐条看标记（标「**只读**」的 AI 可以直接调用，标「**会改机器状态**」的点击、输入、PowerShell、注册表、文件系统……AI 调用时要管理员当场确认），走 AI 运维助手的 `list_computeruse_tools`。
-- **AI 对话**（对齐主界面「AI 运维助手」）：面板下半截就是聊天框，可以边看屏幕边让它干活——正文流式长出来，**思维链（「思考过程」）和每次工具调用（「工具调用 N 次」）各是一块折叠区、默认展开**，看完可以收起来；干活时显示「正在思考…」，答完给一行「用时 X.Xs」（一轮里工具调用撞到上限会补一句「已达单轮工具调用上限」）。
+- **AI 对话**（对齐主界面「AI 运维助手」）：面板下半截就是聊天框，可以边看屏幕边让它干活——正文流式长出来（**Markdown 真的渲染成 DOM**：无序/有序列表、表格、引用、行内代码、加粗；卡片与代码块跟 AI 运维页**共用同一套** `bastion-ai-*` 组件与深色配色），**思维链（「思考过程」）和每次工具调用（「工具调用 N 次」）各是一块折叠区、默认展开**，看完可以收起来；干活时显示「正在思考…」，答完给一行「用时 X.Xs」（一轮里工具调用撞到上限会补一句「已达单轮工具调用上限」）。工具卡里能看到「成功/失败」标签、工具名、耗时、确认人、参数与结果预览，要改机器状态的调用还会带「待确认 N」角标。
 - **示例问题**：还没聊过时面板给出 4 条示例（「打开记事本，输入今天的巡检结论」「把当前屏幕截一张给我看」等），**点一下就发出去**。
 - **输入区**：输入框和「发送」按钮**同一行**（按钮在右），回车发送、Shift+回车换行；回复过程中按钮换成「停止」。
 - **写操作要确认**：命中会改机器状态的工具时弹确认框，要填管理员账号（本机登录的管理员可以留空）与密码，「拒绝执行 / 确认执行」二选一，确认后同一轮对话接着跑。
@@ -279,7 +280,7 @@ Windows-MCP 的截图与界面自动化只认「**它自己所在的那个登录
 
 **本次已知限制（如实写，不吹）**
 
-- **浏览器目视验收：2026-10-13 做了**（Chrome 155.0.8059.40，CDP 驱动真实页面，真机 `hostId=5` 的 `/rdp/console`）：面板展开、示例问题点一下就发出、思维链与「工具调用 1 次」随流式依次出现、敏感操作确认弹窗自动弹出，都当场截图取证；顺带量了横向几何——面板 400px、`.bastion-cu-body` 的 `scrollWidth == clientWidth`（379px），气泡与示例标签都没溢出被裁。截图见 [computeruse-panel.png](screenshots/computeruse-panel.png)（对话中）与 [computeruse-panel-welcome.png](screenshots/computeruse-panel-welcome.png)（空态示例）。面板本身仍由 RDP 侧边栏的 **49** 个前端单测兜底（部署向导另有 63 例，全仓前端 12 文件 182 例全绿）。**仍未验证**：真实 RDP 会话里展开/收起时画布 resize 与远端分辨率联动。
+- **浏览器目视验收：2026-10-13 首轮 + 2026-10-14 改版轮都做了**（Chrome 155.0.8059.40，CDP 驱动真实页面，真机 `hostId=5` 的 `/rdp/console`，跑的就是当轮代码）：首轮验面板展开、示例问题点一下就发出、思维链与「工具调用 1 次」随流式依次出现、敏感操作确认弹窗自动弹出；改版轮验「看一眼屏幕」按钮与截图区块已消失、「重启 MCP」已在头部、深色主题下**没有黑字**（按钮 / Tag / 折叠区都走 antd 深色 token）、轮次结构换成 AI 运维那套（`bastion-ai-turn`、折叠区 `bastion-ai-collar`、工具卡 `bastion-ai-tool`）、**Markdown 真的渲染成 DOM**（`ul=1`、`li=3`、`table=1`、`blockquote=1`，列表项 `检查 win-75 的 SSH/WinRM 登录账号是否可用…` 里的空格都在）、工具调用折叠区**默认展开**（能直接看到「成功 observe_computer 157ms」）。横向几何：面板 400px、`.bastion-cu-body` 的 `scrollWidth == clientWidth`（399px），气泡与示例标签都没溢出。截图见 [computeruse-panel-welcome.png](screenshots/computeruse-panel-welcome.png)（空态）、[computeruse-panel.png](screenshots/computeruse-panel.png)（列表 + 表格真的渲染出来）、[computeruse-panel-tool-call.png](screenshots/computeruse-panel-tool-call.png)（工具调用卡片与默认展开的折叠区）。面板本身仍由 RDP 侧边栏的 **49** 个前端单测兜底（部署向导另有 63 例，全仓前端 12 文件 182 例全绿）。**仍未验证**：真实 RDP 会话里展开/收起时画布 resize 与远端分辨率联动。
 - **没做「目标机整机重启后开机自启」的完整一轮**：VBS → CMD → 接管脚本这条链在真机上被触发过并通过（成功杀掉旧进程 10796、起了新进程 3028），但**没有重启过目标机**。
 - 前端**没有** `computeruse:use` 的按钮级门禁（后端每个接口都有权限校验）。
 - `pip install windows-mcp` 直连 PyPI 很慢（约 18 分钟），向导默认填清华源。

diff --git a/README.md b/README.md
@@ -91,6 +91,16 @@
       <br /><sub><b>ComputerUse</b> — AI 经 MCP 直接截到的 <code>win-75</code> 桌面（这一张就是它拿到的原图，1024×768）</sub>
     </td>
   </tr>
+  <tr>
+    <td align="center" width="50%">
+      <a href="docs/screenshots/computeruse-panel-welcome.png"><img src="docs/screenshots/computeruse-panel-welcome.png" alt="ComputerUse 侧边栏（空态）" /></a>
+      <br /><sub><b>侧边栏（空态）</b> — 部署成功后 RDP 控制台右侧才出现的 AI 操作台：头部报可用工具数与「重启 MCP」，4 条示例点一下就发</sub>
+    </td>
+    <td align="center" width="50%">
+      <a href="docs/screenshots/computeruse-panel.png"><img src="docs/screenshots/computeruse-panel.png" alt="ComputerUse 侧边栏（对话中）" /></a>
+      <br /><sub><b>侧边栏（对话中）</b> — 思维链、每轮工具调用与 Markdown（列表 / 表格）都在对话里流式渲染，样式与「AI 运维助手」共用</sub>
+    </td>
+  </tr>
 </table>
 
 > 40+ 张实测截图都在 [`docs/screenshots/`](docs/screenshots/)，下面「验证记录」里的每条实测都对应其中一张。
